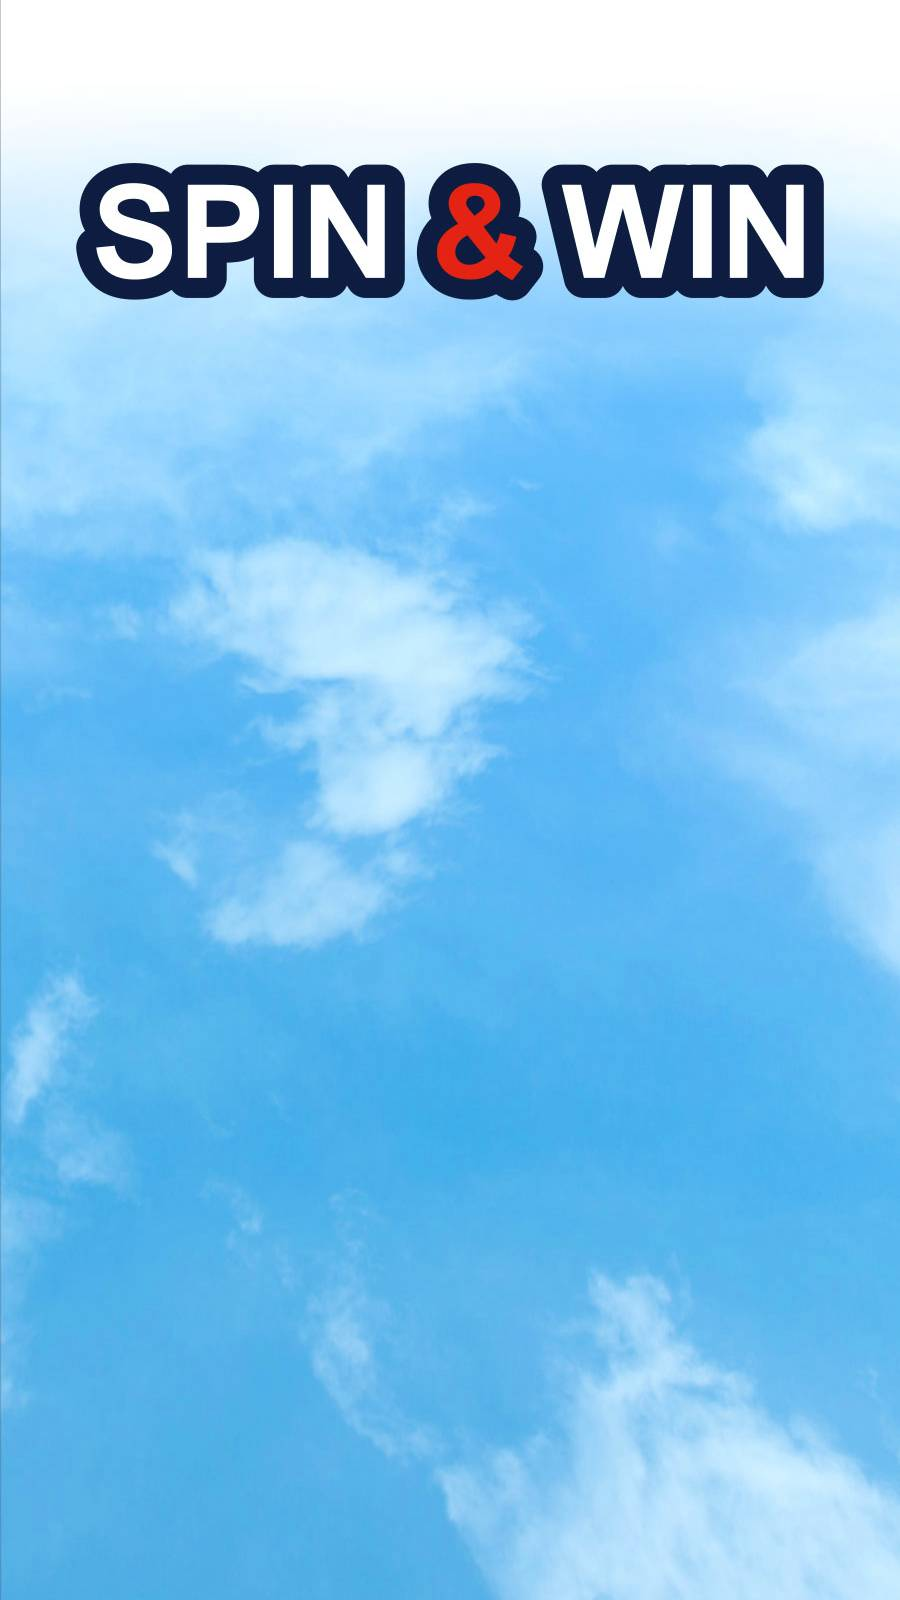
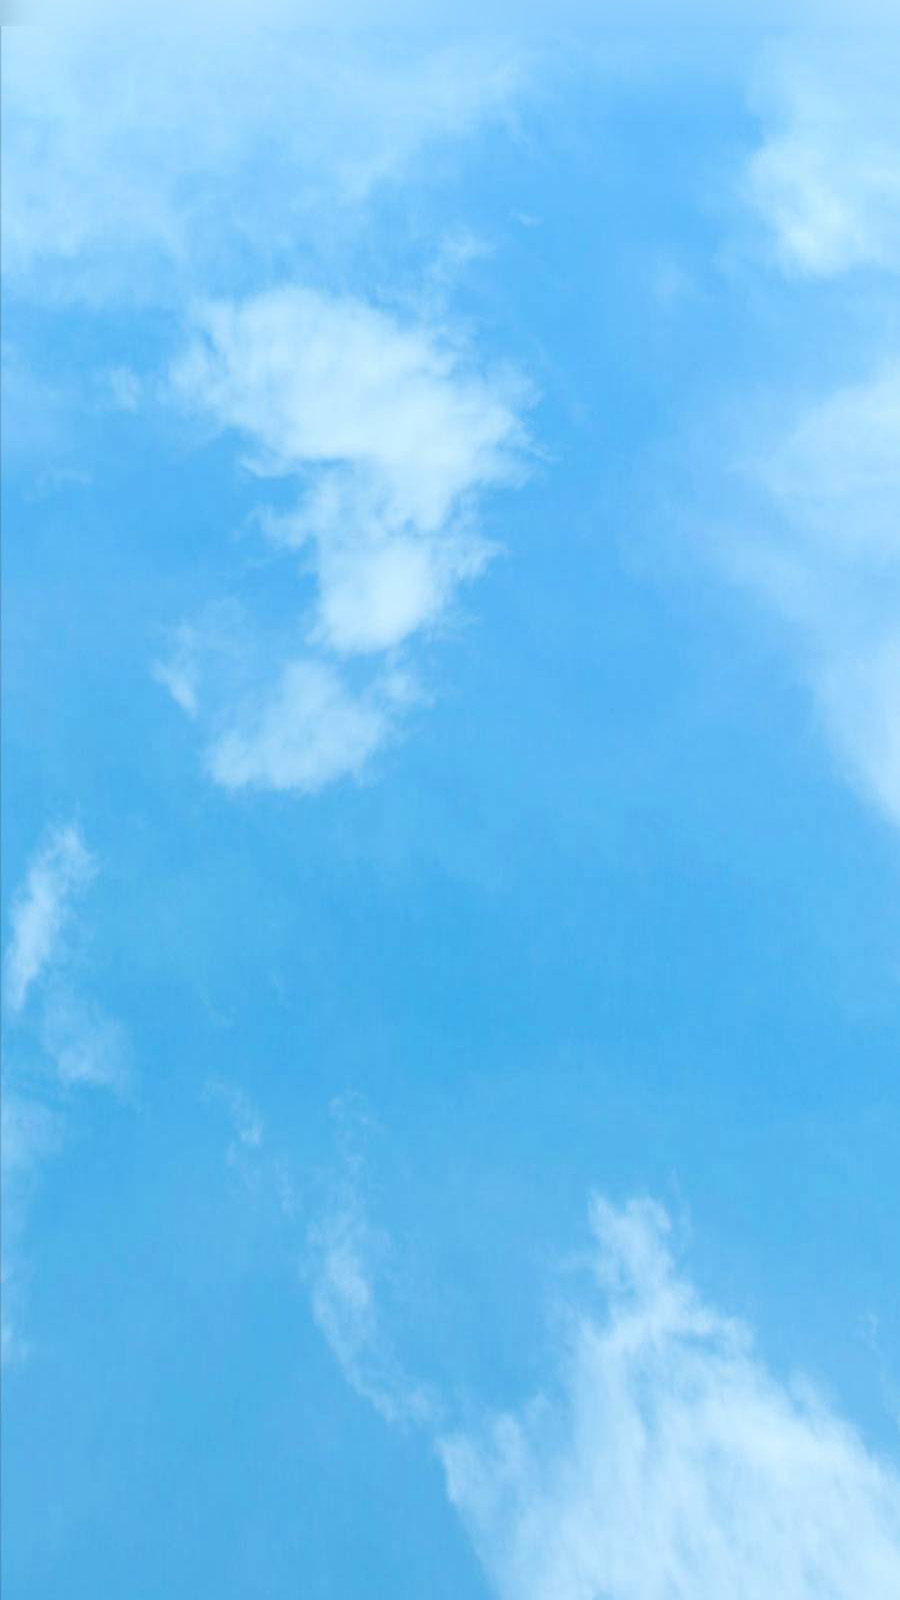
separate background text

diff --git a/index.html b/index.html
@@ -1,4 +1,4 @@
-<!DOCTYPE html >
+<!DOCTYPE html>
 <html lang="en" data-bs-theme="dark">
   <head>
     <meta charset="UTF-8" />
@@ -23,14 +23,22 @@
     style="
       background-image: url('bg.jpg');
       background-size: cover;
-      background-position: 50% 18%;
+      background-position: 50% 20%;
     "
     onclick="fullscreen()"
   >
     <div
-      class="d-flex justify-content-center align-items-center"
-      style="height: 100vh; width: 100vw; padding-top: 20vh"
+      class="d-flex justify-content-center align-items-center flex-column"
+      style="
+        height: 100vh;
+        width: 100vw;
+        gap: 15vh;
+        background: linear-gradient(to bottom, white 0%, transparent 30%);
+      "
     >
+      <div class="d-flex justify-content-center align-items-center" style="margin: 0 5vw;">
+        <img src="spinwin.png" alt="Spin & Win" class="img-fluid" />
+      </div>
       <div
         class="position-relative d-flex justify-content-center align-items-center"
       >
@@ -43,7 +51,7 @@
             max-width: min(70vh, 90vw);
             box-shadow: black 0 0 min(5vw, 3vh);
             outline: white solid min(2vw, 1vh);
-            outline-offset: calc(-1 * min(1vw, 0.5vh));
+            outline-offset: max(-1vw, -0.5vh);
           "
           onclick="spin()"
         ></div>
